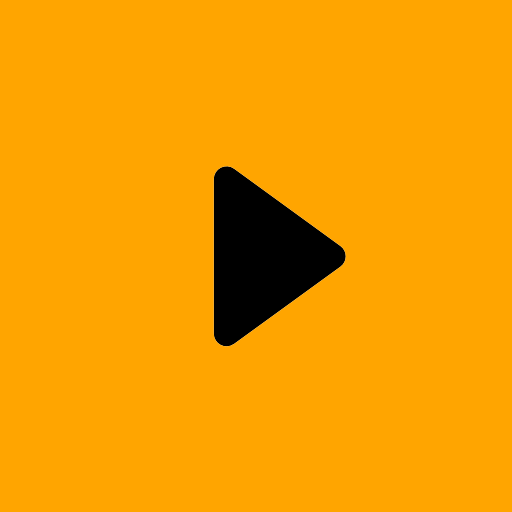
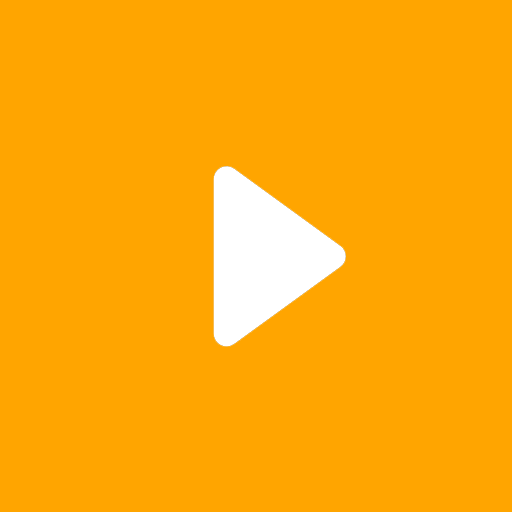
Add adaptive to the company page

Changed region(s): [[0.4062, 0.3125, 0.6875, 0.6875]]

diff --git a/Front/src/pages/company/company.jsx b/Front/src/pages/company/company.jsx
@@ -7,12 +7,14 @@ import video from "../../assets/video/0-02-05-19af0407ca6548f9154e480ac8ff47ce98
 
 import pausedIcon from "../../assets/img/company/375.png";
 import playingIcon from "../../assets/img/company/16427.png";
+import fullScreenIcon from "../../assets/img/company/23435345.png";
 
 const Company = () => {
   const [isPlaying, setIsPlaying] = useState(false);
   const [isMuted, setIsMuted] = useState(false);
 
   const videoRef = useRef(null);
+  const videoContRef = useRef(null);
 
   useEffect(() => {
     document.title = "Компанія";
@@ -60,6 +62,37 @@ const Company = () => {
     if (videoRef.current) {
       if (videoRef.current.paused) videoRef.current.play();
       else videoRef.current.pause();
+    }
+  };
+
+  const openFullscreen = () => {
+    const video = videoContRef.current;
+
+    if (
+      document.fullscreenElement ||
+      document.mozFullScreenElement ||
+      document.webkitFullscreenElement ||
+      document.msFullscreenElement
+    ) {
+      if (document.exitFullscreen) {
+        document.exitFullscreen();
+      } else if (document.mozCancelFullScreen) {
+        document.mozCancelFullScreen();
+      } else if (document.webkitExitFullscreen) {
+        document.webkitExitFullscreen();
+      } else if (document.msExitFullscreen) {
+        document.msExitFullscreen();
+      }
+    } else {
+      if (video.requestFullscreen) {
+        video.requestFullscreen();
+      } else if (video.mozRequestFullScreen) {
+        video.mozRequestFullScreen();
+      } else if (video.webkitRequestFullscreen) {
+        video.webkitRequestFullscreen();
+      } else if (video.msRequestFullscreen) {
+        video.msRequestFullscreen();
+      }
     }
   };
 
@@ -221,11 +254,12 @@ const Company = () => {
 
           <hr />
 
-          <div className="video-company hiddenBottom">
+          <div className="video-company hiddenBottom" ref={videoContRef}>
             <video
               src={video}
               loop
               ref={videoRef}
+              muted
               playsInline
               disablePictureInPicture
               onPlay={() => setIsPlaying(true)}
@@ -243,11 +277,11 @@ const Company = () => {
                 >
                   <path
                     d="M9.22879 21.7629H6.59181C3.40105 21.7629 1.64746 20.1322 1.64746 17.1651V12.2608C1.64746 9.2937 3.40105 7.66302 6.59181 7.66302H8.47725C8.7805 7.66302 9.08375 7.5772 9.34745 7.43007L13.1974 5.18635C15.1224 4.07062 16.9947 3.86219 18.4714 4.62236C19.9481 5.38252 20.7524 6.96416 20.7524 9.08527V10.2623C20.7524 10.765 20.3041 11.1819 19.7635 11.1819C19.223 11.1819 18.7747 10.765 18.7747 10.2623V9.08527C18.7747 7.68754 18.3132 6.64538 17.5089 6.24078C16.7046 5.82391 15.518 6.00782 14.2391 6.75573L10.3891 8.98718C9.82211 9.33048 9.14968 9.50213 8.47725 9.50213H6.59181C4.50859 9.50213 3.6252 10.3236 3.6252 12.2608V17.1651C3.6252 19.1023 4.50859 19.9238 6.59181 19.9238H9.22879C9.76937 19.9238 10.2177 20.3406 10.2177 20.8433C10.2177 21.346 9.76937 21.7629 9.22879 21.7629ZM16.5491 25.2449C15.5074 25.2449 14.3604 24.9016 13.2133 24.2273C12.9912 24.0988 12.8331 23.8936 12.7738 23.6568C12.7144 23.42 12.7587 23.1709 12.8968 22.9644C13.035 22.7579 13.2556 22.6109 13.5103 22.5558C13.765 22.5006 14.0328 22.5417 14.2549 22.6702C15.5338 23.4058 16.7205 23.602 17.5247 23.1851C18.329 22.7683 18.7905 21.7261 18.7905 20.3406V15.8777C18.7905 15.375 19.2388 14.9582 19.7794 14.9582C20.3199 14.9582 20.7682 15.375 20.7682 15.8777V20.3406C20.7682 22.4495 19.9508 24.0434 18.4872 24.8035C17.8939 25.0978 17.2347 25.2449 16.5491 25.2449ZM23.7322 20.5368C23.5486 20.5368 23.3685 20.4892 23.2123 20.3995C23.0561 20.3097 22.9299 20.1812 22.8477 20.0285C22.7656 19.8757 22.7308 19.7047 22.7473 19.5347C22.7638 19.3646 22.8309 19.2021 22.9411 19.0655C23.7561 18.0522 24.2725 16.8586 24.439 15.6027C24.6055 14.3468 24.4164 13.0723 23.8904 11.9052C23.7896 11.6808 23.7884 11.4284 23.8873 11.2032C23.9861 10.978 24.1769 10.7984 24.4178 10.7037C24.9188 10.5075 25.499 10.7282 25.7099 11.1941C27.0548 14.1612 26.5933 17.6065 24.5233 20.1812C24.3255 20.4142 24.0355 20.5368 23.7322 20.5368Z"
-                    fill="#2F2F2F"
+                    fill="#FFFFFF"
                   />
                   <path
                     d="M26.1439 23.6019C25.9603 23.6019 25.7803 23.5544 25.624 23.4646C25.4678 23.3748 25.3416 23.2463 25.2594 23.0936C25.1773 22.9408 25.1425 22.7699 25.159 22.5998C25.1755 22.4297 25.2426 22.2672 25.3528 22.1306C28.1744 18.6363 28.7941 13.9527 26.9746 9.91892C26.8737 9.6945 26.8726 9.44206 26.9714 9.21687C27.0703 8.99167 27.261 8.81207 27.502 8.71737C28.0162 8.5212 28.5831 8.74189 28.7941 9.2078C30.8905 13.8424 30.1785 19.2126 26.935 23.2341C26.7504 23.4793 26.4472 23.6019 26.1439 23.6019ZM2.63916 27.8944C2.38865 27.8944 2.13813 27.8086 1.94036 27.6247C1.75645 27.4516 1.65332 27.2181 1.65332 26.9748C1.65332 26.7315 1.75645 26.4981 1.94036 26.325L28.3102 1.80354C28.6926 1.44797 29.3254 1.44797 29.7078 1.80354C30.0902 2.1591 30.0902 2.74761 29.7078 3.10317L3.33796 27.6247C3.14019 27.8086 2.88967 27.8944 2.63916 27.8944Z"
-                    fill="#2F2F2F"
+                    fill="#FFFFFF"
                   />
                 </svg>
               ) : (
@@ -260,18 +294,22 @@ const Company = () => {
                 >
                   <path
                     d="M2.63672 12.2609V17.1651C2.63672 19.6173 3.95521 20.8434 6.59219 20.8434H8.47764C8.96548 20.8434 9.45332 20.9782 9.87524 21.2112L13.7252 23.4549C17.0478 25.3921 19.7771 23.9821 19.7771 20.3407V9.08532C19.7771 5.43162 17.0478 4.03389 13.7252 5.97109L9.87524 8.21481C9.45332 8.44776 8.96548 8.58263 8.47764 8.58263H6.59219C3.95521 8.58263 2.63672 9.8087 2.63672 12.2609Z"
-                    stroke="#2F2F2F"
+                    stroke="#FFFFFF"
                     strokeWidth="1.61307"
                   />
                   <path
                     d="M23.7324 9.80859C24.8749 11.2229 25.4926 12.944 25.4926 14.7129C25.4926 16.4818 24.8749 18.2029 23.7324 19.6172M26.1453 6.74341C28.0003 9.04229 29.0031 11.8388 29.0031 14.7129C29.0031 17.587 28.0003 20.3835 26.1453 22.6824"
-                    stroke="#2F2F2F"
+                    stroke="#FFFFFF"
                     strokeWidth="1.61307"
                     strokeLinecap="round"
                     strokeLinejoin="round"
                   />
                 </svg>
               )}
+            </div>
+
+            <div onClick={openFullscreen}>
+              <img src={fullScreenIcon} alt="full screen" />
             </div>
 
             {isPlaying ? (

diff --git a/Front/src/pages/company/companyStyle.scss b/Front/src/pages/company/companyStyle.scss
@@ -16,7 +16,7 @@
       TTHoves,
       25px,
       600,
-      20px,
+      30px,
       0.1em,
       center,
       none,
@@ -186,16 +186,29 @@
     & > div {
       border-radius: 50%;
       background-color: orange;
-      display: inline;
       position: absolute;
-      top: 15px;
-      left: 15px;
       display: flex;
       align-items: center;
       justify-content: center;
       padding: 5px;
       opacity: 0;
       transition: opacity 0.3s;
+
+      &:first-of-type {
+        top: 15px;
+        left: 15px;
+      }
+
+      &:last-of-type {
+        bottom: 15px;
+        right: 15px;
+        width: 3.5em;
+        height: 3.5em;
+
+        img {
+          width: 70%;
+        }
+      }
     }
 
     img {
@@ -203,20 +216,36 @@
       border-radius: 50%;
       opacity: 0;
       transition: opacity 0.3s;
+      top: 0;
+      bottom: 0;
+      left: 0;
+      right: 0;
+      margin: auto;
+      width: 10%;
+    }
+  }
+}
 
-      &:first-of-type {
-        top: 20px;
-        left: 20px;
-        width: 40px;
+@media only screen and (max-width: 1005px) {
+  .company {
+    .work {
+      & > div {
+        grid-template-columns: 1fr;
+        grid-template-rows: repeat(2, auto);
+
+        & > div {
+          &:last-child {
+            margin-top: 30px;
+            justify-content: start;
+          }
+        }
       }
+    }
 
-      &:last-of-type {
-        top: 0;
-        bottom: 0;
-        left: 0;
-        right: 0;
-        margin: auto;
-        width: 100px;
+    .video-company {
+      & > div {
+        width: 6%;
+        height: 10%;
       }
     }
   }

diff --git a/Front/src/index.scss b/Front/src/index.scss
@@ -157,6 +157,6 @@ img {
 @media only screen and (max-width: 515px) {
   .container {
     margin: 0 auto;
-    padding: 0 0;
+    padding: 0 20px;
   }
 }
